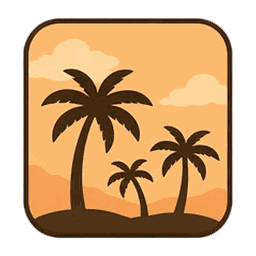
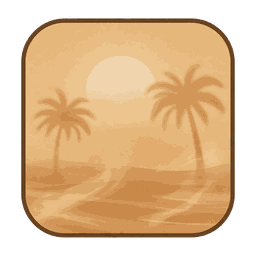
New calima image (content 2026.10.13-15)

diff --git a/flutter_bootstrap.js b/flutter_bootstrap.js
@@ -42,6 +42,6 @@ _flutter.buildConfig = {"engineRevision":"deb287481e3ce9468f3434937ced4240a70539
 
 _flutter.loader.load({
   serviceWorkerSettings: {
-    serviceWorkerVersion: "2661889349" /* Flutter's service worker is deprecated and will be removed in a future Flutter release. */
+    serviceWorkerVersion: "3537894132" /* Flutter's service worker is deprecated and will be removed in a future Flutter release. */
   }
 });
